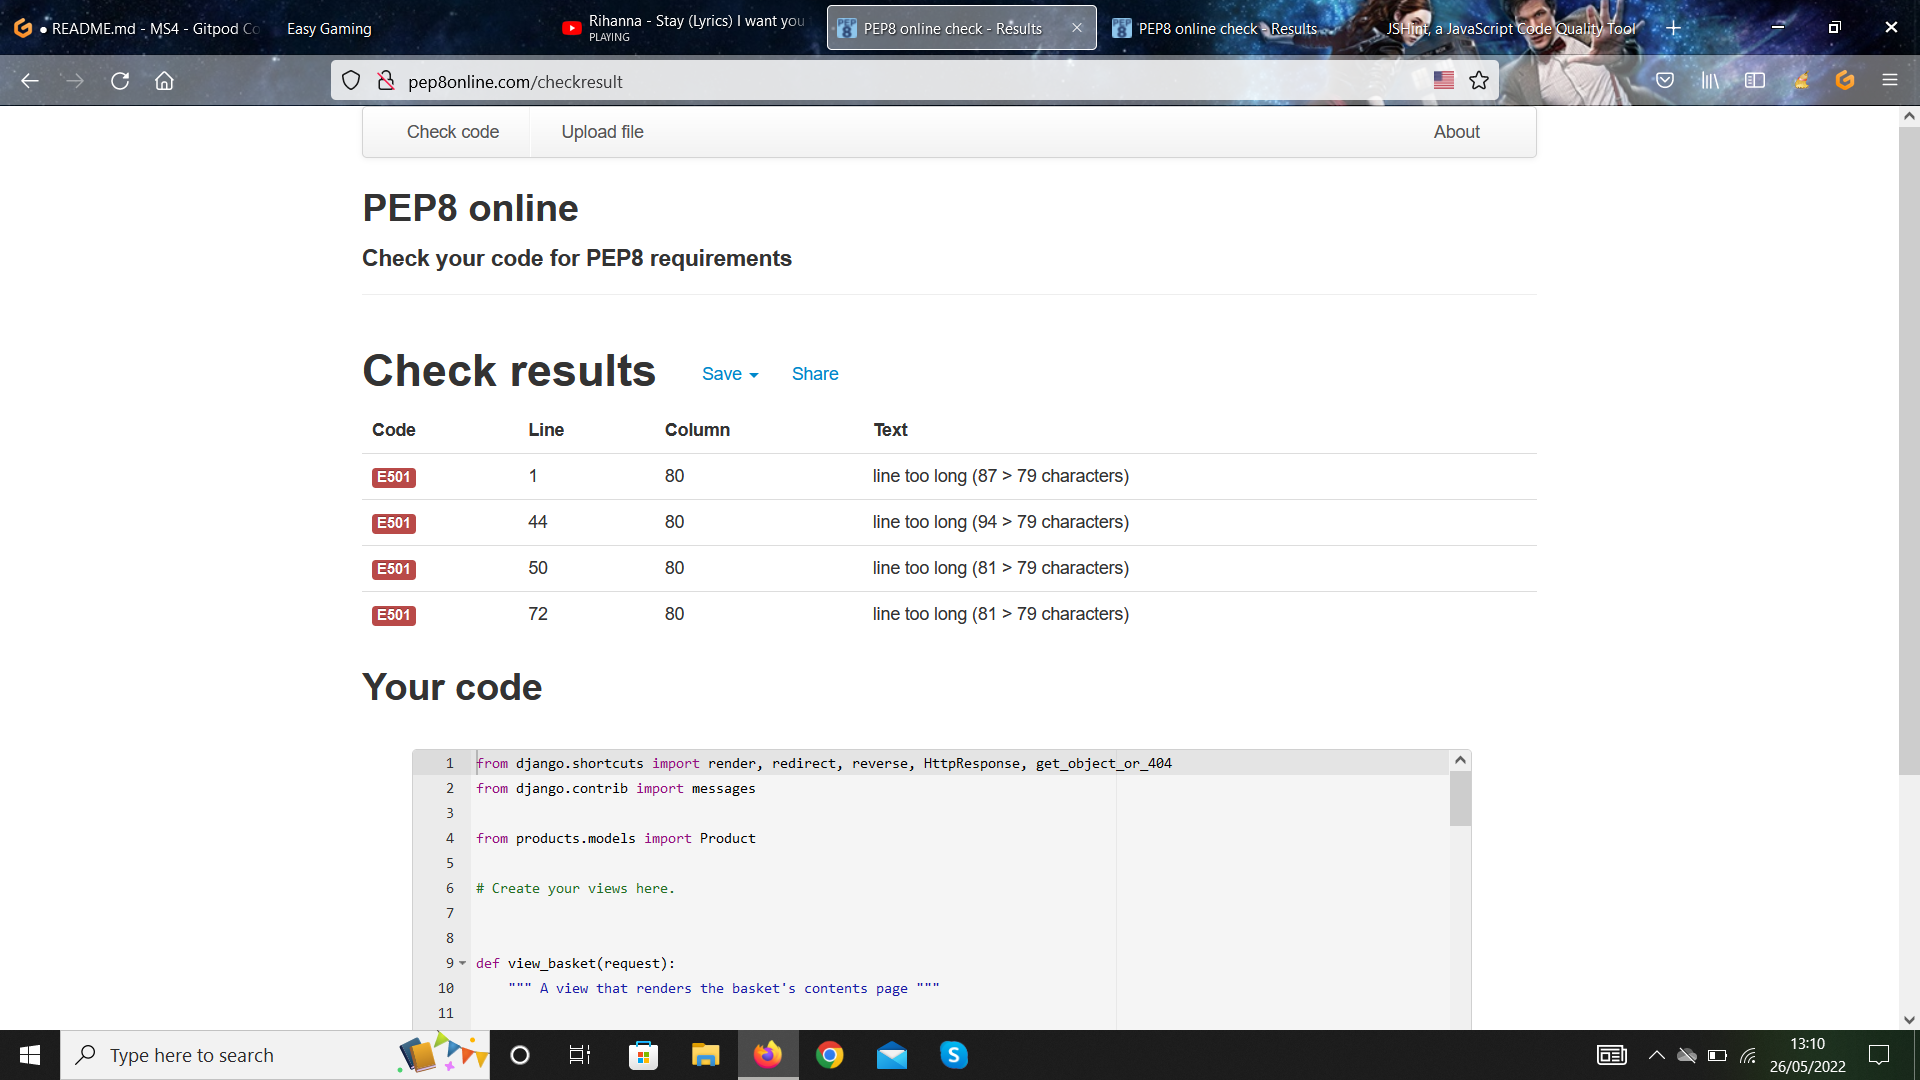
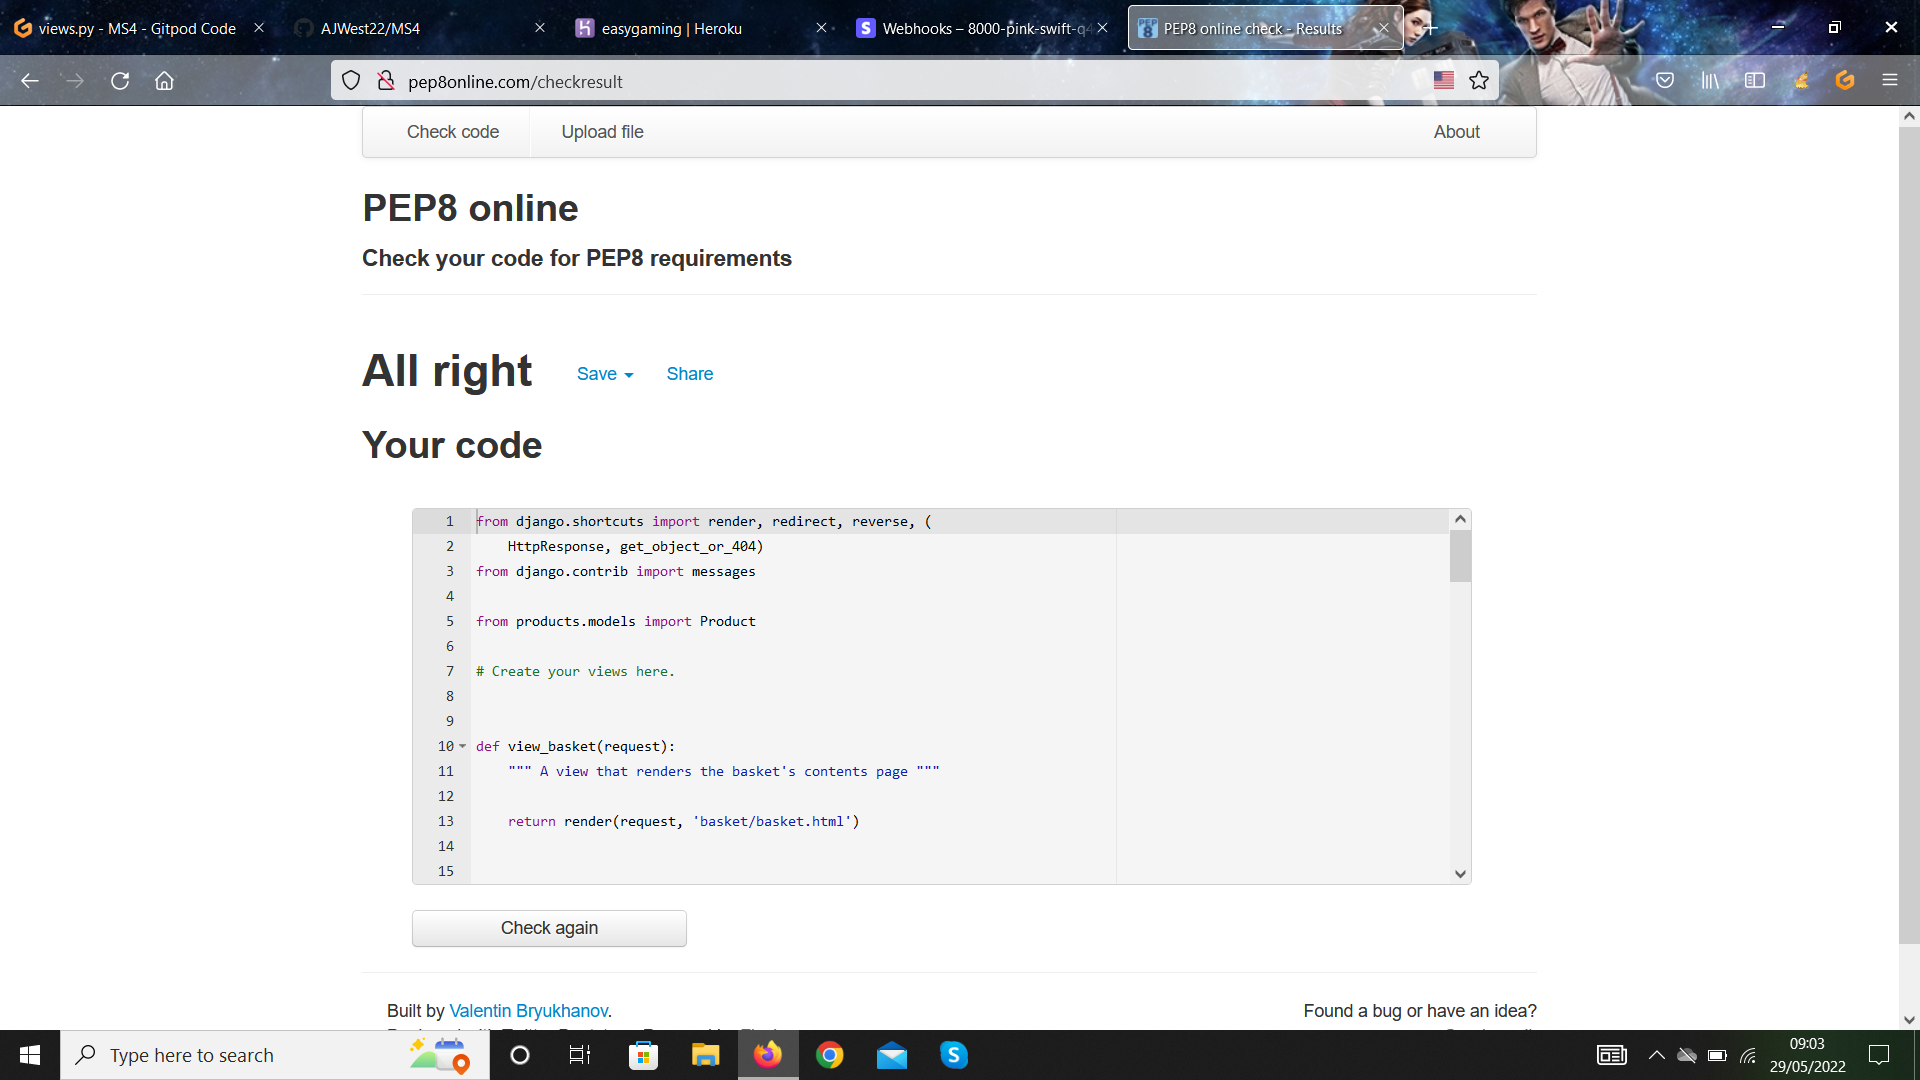
Update basket-views image

diff --git a/basket/views.py b/basket/views.py
@@ -1,4 +1,5 @@
-from django.shortcuts import render, redirect, reverse, HttpResponse, get_object_or_404
+from django.shortcuts import render, redirect, reverse, (
+    HttpResponse, get_object_or_404)
 from django.contrib import messages
 
 from products.models import Product
@@ -41,13 +42,15 @@ def adjust_basket(request, item_id):
     if quantity:
         if quantity > 0:
             basket[item_id] = quantity
-            messages.success(request, f'Updated {product.name} quantity to {basket[item_id]}')
+            messages.success(request, f'Updated {product.name}(
+                quantity to {basket[item_id]}'))
     else:
         if quantity > 0:
             basket[item_id] = quantity
         else:
             basket.pop(item_id)
-            messages.success(request, f'Removed {product.name} from your basket')
+            messages.success(request, f'Removed {product.name}(
+                from your basket'))
 
     request.session['basket'] = basket
     return redirect(reverse('view_basket'))
@@ -69,7 +72,8 @@ def remove_from_basket(request, item_id):
                 basket.pop(item_id)
         else:
             basket.pop(item_id)
-            messages.success(request, f'Removed {product.name} from your basket')
+            messages.success(request, f'Removed {product.name}( 
+                from your basket'))
 
         request.session['basket'] = basket
         return HttpResponse(status=200)

diff --git a/blog/forms.py b/blog/forms.py
@@ -9,7 +9,8 @@ class PostForm(forms.ModelForm):
         fields = ('title',
                   'post')
 
-    image = forms.ImageField(label='Image', required=False, widget=CustomClearableFileInput)
+    image = forms.ImageField(label='Image', required=False, (
+        widget=CustomClearableFileInput))
 
     def __init__(self, *args, **kwargs):
         super().__init__(*args, **kwargs)
